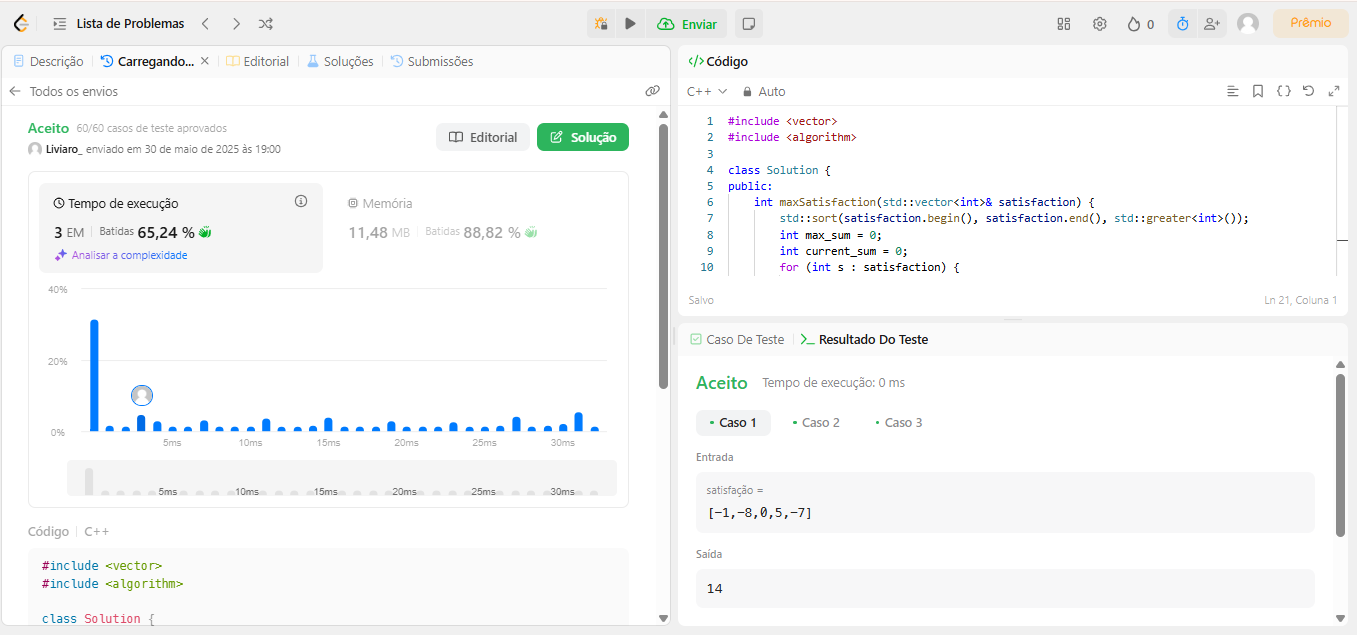
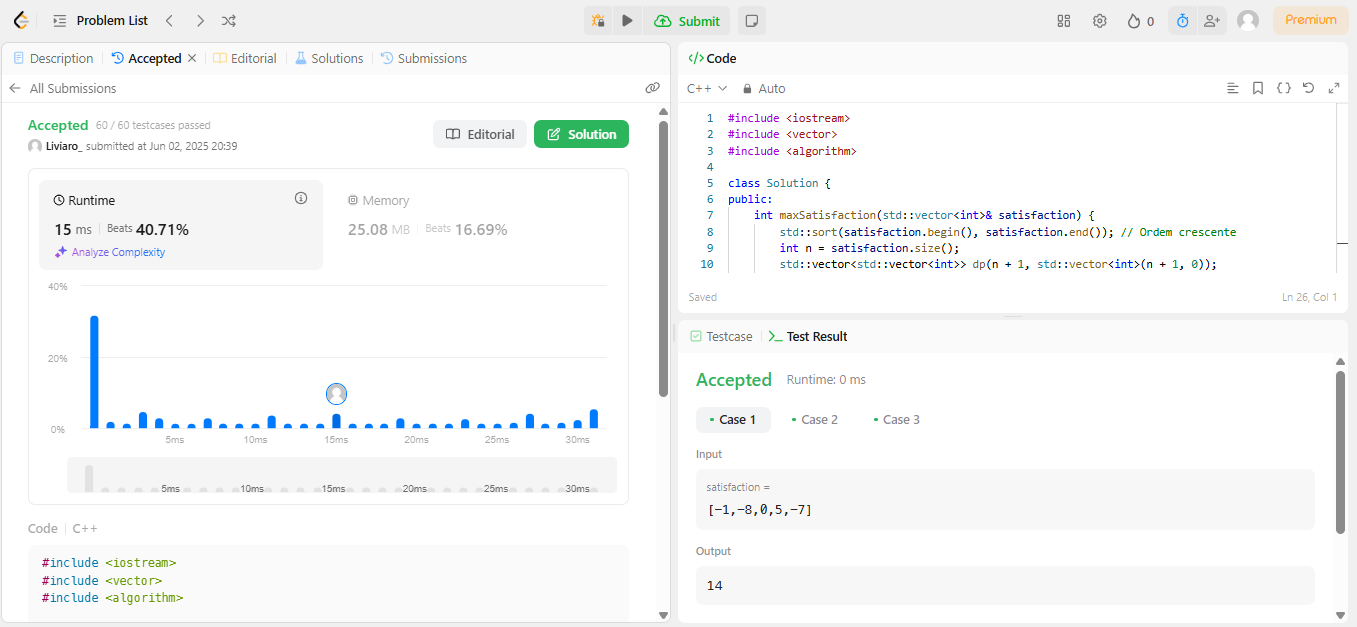
fix: corrigindo exercicios

diff --git a/exercises/1402_hard/reducing_Dishes.cpp b/exercises/1402_hard/reducing_Dishes.cpp
@@ -5,34 +5,19 @@
 class Solution {
 public:
     int maxSatisfaction(std::vector<int>& satisfaction) {
-        std::sort(satisfaction.begin(), satisfaction.end(), std::greater<int>());
-        int max_sum = 0;
-        int current_sum = 0;
-        for (int s : satisfaction) {
-            current_sum += s;
-            if (current_sum > 0) {
-                max_sum += current_sum;
-            } else {
-                break;
+        std::sort(satisfaction.begin(), satisfaction.end()); 
+        int n = satisfaction.size();
+        std::vector<std::vector<int>> dp(n + 1, std::vector<int>(n + 1, 0));
+
+        for (int i = n - 1; i >= 0; --i) {
+            for (int t = i; t >= 0; --t) {
+                dp[i][t] = std::max(
+                    satisfaction[i] * (t + 1) + dp[i + 1][t + 1], 
+                    dp[i + 1][t]                                 
+                );
             }
         }
-        return max_sum;
+
+        return dp[0][0];
     }
 };
-
-// Função principal para testar a classe Solution
-// int main() {
-//     Solution sol; // Cria uma instância da classe Solution
-
-//     // Define três vetores de exemplo com níveis de satisfação
-//     std::vector<int> ex1 = {-1, -8, 0, 5, -9}; // Deve resultar em 14
-//     std::vector<int> ex2 = {4, 3, 2};          // Deve resultar em 20
-//     std::vector<int> ex3 = {-1, -4, -5};       // Deve resultar em 0
-
-//     // Imprime os resultados das chamadas ao método maxSatisfaction
-//     std::cout << sol.maxSatisfaction(ex1) << std::endl;
-//     std::cout << sol.maxSatisfaction(ex2) << std::endl;
-//     std::cout << sol.maxSatisfaction(ex3) << std::endl;
-
-//     return 0; // Retorna 0 indicando execução bem-sucedida
-// }

diff --git a/exercises/45_medium/jump_Game_II.cpp b/exercises/45_medium/jump_Game_II.cpp
@@ -4,25 +4,24 @@
 class Solution {
 public:
     int jump(std::vector<int>& nums) {
-        if (nums.size() == 1) {
-            return 0;
-        }
+        int n = nums.size();
+        if (n <= 1) return 0;
 
         int jumps = 0;
-        int current_end = 0;
-        int farthest = 0;
+        int current_end = 0;  
+        int farthest = 0;     
+        int i = 0;
 
-        for (int i = 0; i < nums.size() - 1; ++i) {
-            farthest = std::max(farthest, i + nums[i]);
-
-            if (i == current_end) {
-                ++jumps;
-                current_end = farthest;
-
-                if (current_end >= nums.size() - 1) {
-                    break;
-                }
+        while (current_end < n - 1) {
+            jumps++;
+            while (i <= current_end) {
+                farthest = std::max(farthest, i + nums[i]);
+                i++;
             }
+            if (farthest <= current_end) {
+                return -1;
+            }
+            current_end = farthest;
         }
 
         return jumps;

diff --git a/exercises/1402_hard/README.md b/exercises/1402_hard/README.md
@@ -1,10 +1,12 @@
 # [1402. Reducing Dishes](https://leetcode.com/problems/reducing-dishes/description/)
 
-Para resolver este problema com um algoritmo ambicioso, a ideia é que, para maximizar o somatório dos coeficientes de tempo de satisfação, devemos ordenar as satisfações em ordem decrescente e somar os pratos de forma que o impacto das satisfações maiores seja multiplicado por tempos maiores.
+Para resolver este problema, podemos enxergá-lo como uma variação do problema Knapsack, onde o objetivo é maximizar a soma da satisfação dos pratos multiplicada pelo tempo em que são preparados. Cada prato pode ser incluído ou não, e a ordem de preparo influencia o valor final, pois o multiplicador de tempo aumenta a cada prato escolhido.
 
 # Lógica da Solução 
 
-O algoritmo ordena as satisfações em ordem decrescente para dar prioridade aos pratos com maior valor. Em seguida, soma progressivamente essas satisfações, acumulando apenas enquanto essa soma for positiva. Isso garante que incluir o próximo prato aumentará a satisfação total ponderada pelo tempo. Quando a soma acumulada se torna zero ou negativa, parar significa que adicionar mais pratos só reduziria o resultado. O valor final acumulado é, então, o máximo somatório possível da satisfação multiplicada pelo tempo.
+O algoritmo usa programação dinâmica para decidir, para cada prato e tempo atual, se vale mais a pena incluir o prato naquele momento (incrementando o tempo e somando a satisfação ponderada) ou pular o prato. Essa decisão é armazenada em uma tabela dp, que armazena a melhor satisfação possível para cada estado (índice do prato e tempo).
+
+Como a satisfação depende da ordem, a solução considera todos os arranjos possíveis de escolha, garantindo o valor máximo da soma ponderada.
 
 # Submissão
 

diff --git a/exercises/45_medium/README.md b/exercises/45_medium/README.md
@@ -1,10 +1,13 @@
 # [45. Jump Game II](https://leetcode.com/problems/jump-game-ii/description/)
 
-O problema requer encontrar o número mínimo de saltos para alcançar o último índice de um array, dado que cada elemento do array indica o máximo de posições que você pode saltar para frente a partir desse índice. Para resolver este problema, usamos algoritmos ambiciosos.
+Técnica utilizada: Interval Scheduling (adaptada para cobertura mínima)
+No problema, cada posição i no array define um intervalo [i, i + nums[i]] que representa o alcance possível ao pular a partir dessa posição.
+
+Nosso objetivo é cobrir o intervalo [0, n-1] com o menor número de intervalos possíveis, ou seja, minimizar o número de saltos necessários para alcançar o fim.
 
 # Lógica da Solução 
 
-A cada posição do array, calculamos o ponto mais distante que conseguimos alcançar (o salto mais longo possível). Mantemos uma janela de alcance atual, e sempre que chegamos ao final dessa janela, contamos um salto e expandimos a janela para o ponto mais distante que conseguimos até então. Repetimos esse processo até alcançar (ou ultrapassar) o último índice.
+Interpretamos o problema como um caso de Interval Scheduling adaptado para cobertura mínima.Começamos cobrindo o índice 0.Em cada passo, selecionamos o intervalo que começa antes ou no ponto atual da cobertura e que alcança o ponto mais distante possível.Cada vez que estendemos a cobertura com um novo intervalo, contamos um salto.Repetimos até que a cobertura atinja ou ultrapasse o último índice.
 
 # Submissão
 
